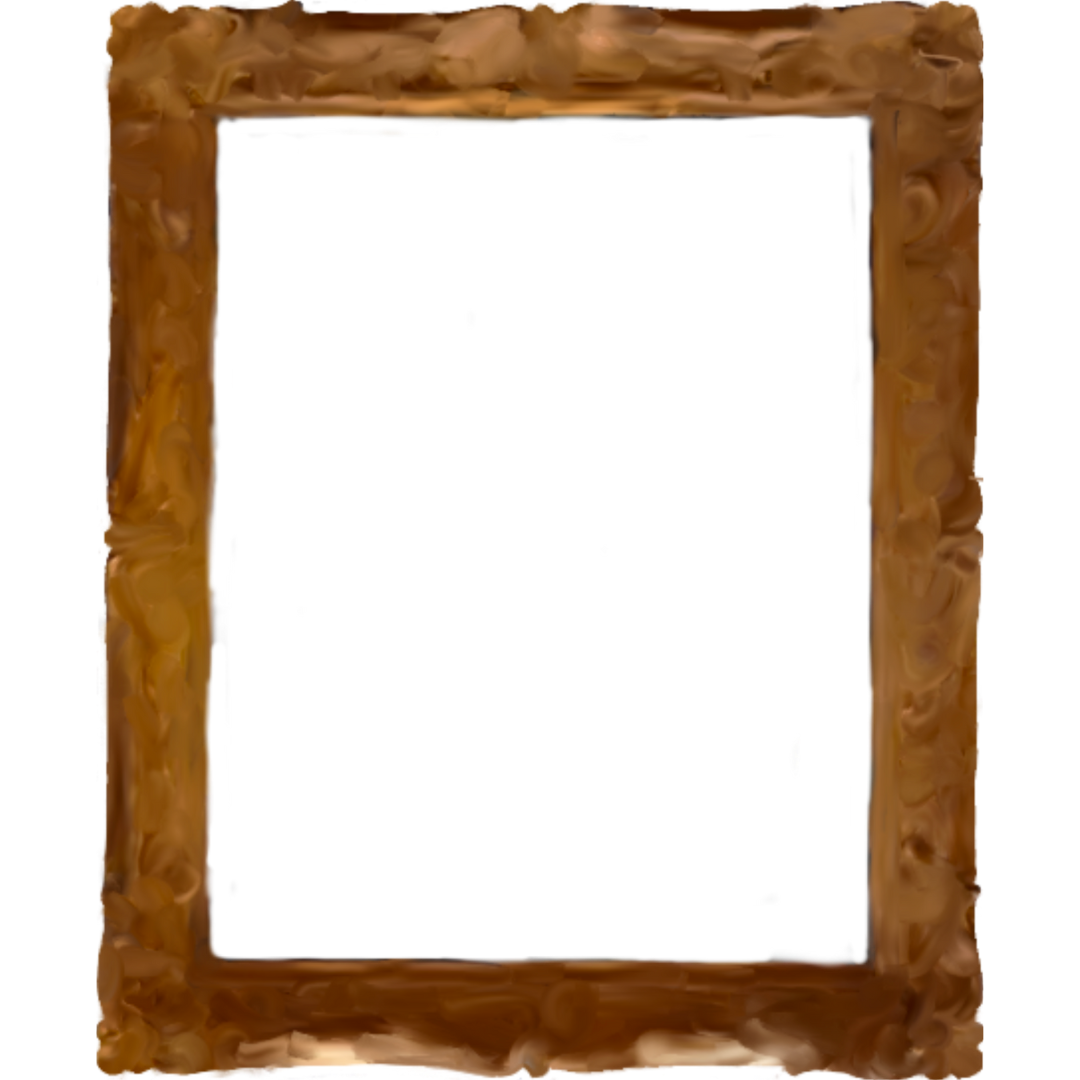
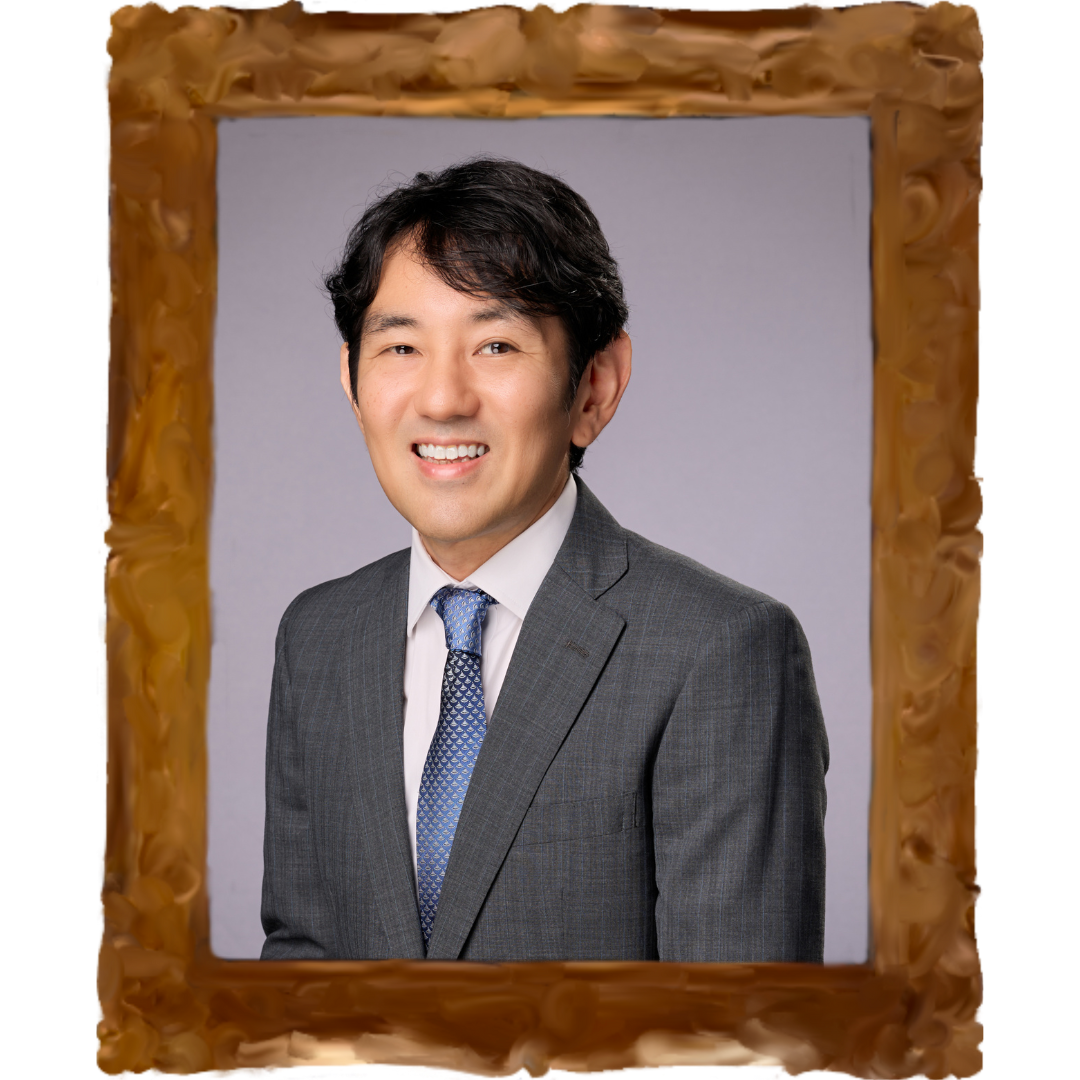
added speaker

diff --git a/speakers.html b/speakers.html
@@ -56,7 +56,7 @@
                 <img src="assets/speakers/3.png" alt="Speaker 2">
                 <h3>Mr Jack Sim</h3>
             </div>
-            <div class="speaker-card" onclick="openModal('Mr Kei Koga', 'TBC', 'assets/speakers/4.png', 'TBC', 'TBC')">
+            <div class="speaker-card" onclick="openModal('Mr Kei Koga', `The future of global leadership in a multipolar world`, 'assets/speakers/4.png', `Kei Koga is Associate Professor at the Public Policy and Global Affairs Programme, School of Social Sciences, Nanyang Technological University (NTU). Concurrently, he is a Nonresident Fellow at The National Bureau of Asia Research (NBR), the United States, and a member of RIPS Research Committee, the Research Institute for Peace and Security (RIPS), Japan. His research focuses on International Security, International/Regional Institutions (particularly ASEAN), and East Asian/Indo-Pacific security. Previously, he was Japan Scholar at the Wilson Center in 2022; visiting fellow at Center for Strategic and International Studies (CSIS) in 2017; a Japan-U.S. Partnership Fellow at the Research Institute for Peace and Security (RIPS), Tokyo, in 2012-2014; Postdoctoral Fellow in the International Studies Program, The Belfer Center for Science and International Affairs, Harvard Kennedy School, in 2012-2013; a Vasey Fellow at the Pacific Forum CSIS in 2009–2010; and RSIS-MacArthur visiting associate fellow at S. Rajaratnam School of International Studies (RSIS), NTU in 2010. He received his Ph.D. in International Relations at the Fletcher School of Law and Diplomacy, Tufts University.`, `In today's multipolar world, leadership faces the temptation of populism, offering simple solutions that often neglect long-term consequences. Power politics matters to maintain stability, but divisions within and between nation-states threaten global stability, underscoring the need for unity. Engaging in blame games hampers progress; instead, leaders should focus on constructive engagement and dialogue. By clearly articulating choices and aligning words with actions, leaders can foster trust and guide societies toward sustainable futures.`)">
                 <img src="assets/speakers/4.png" alt="Speaker 3">
                 <h3>Mr Kei Koga</h3>
             </div>
